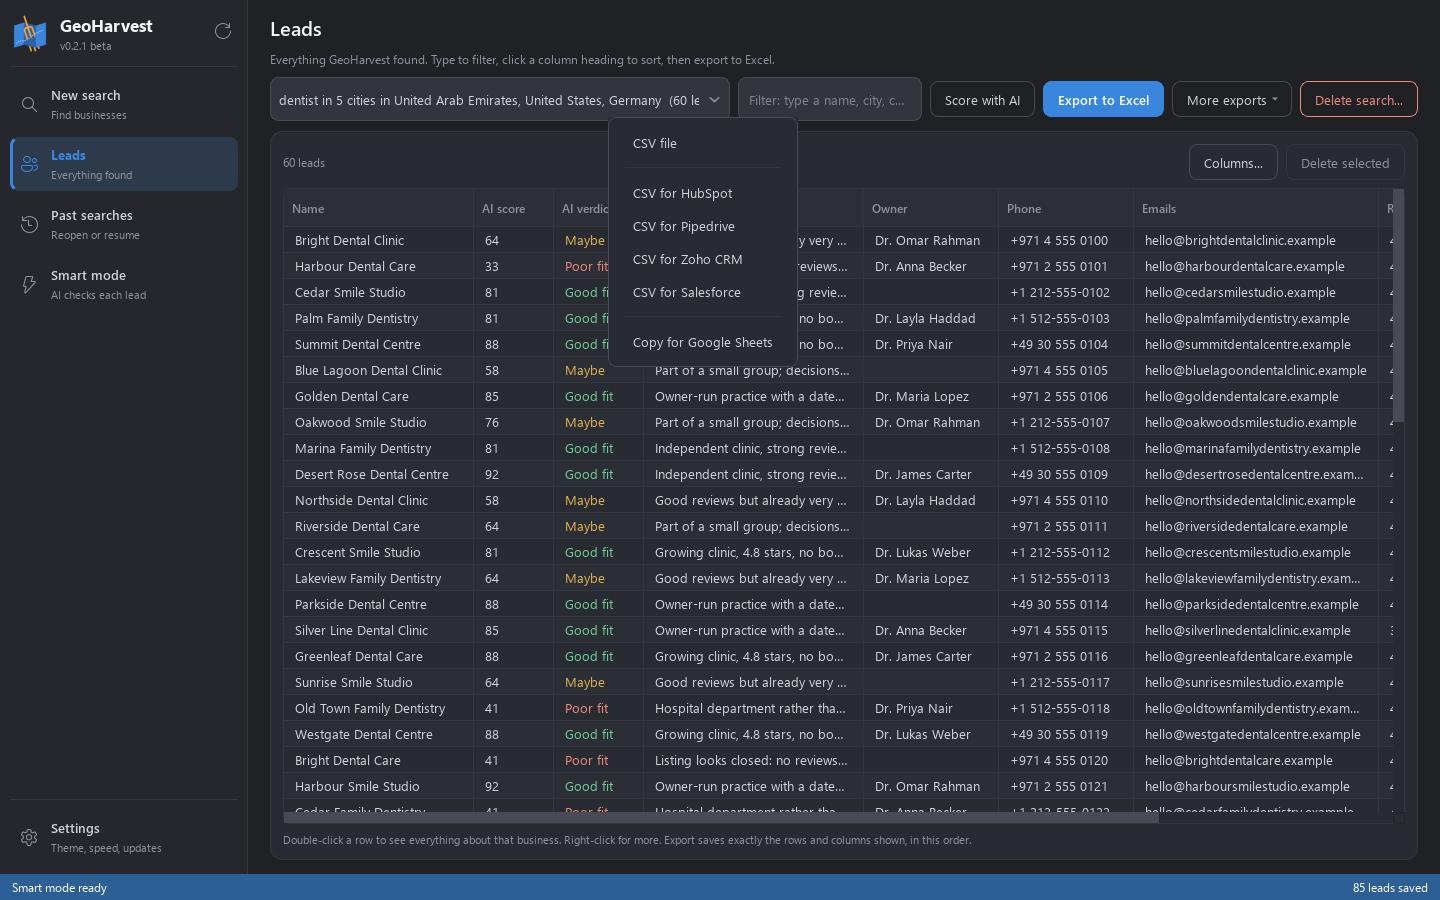
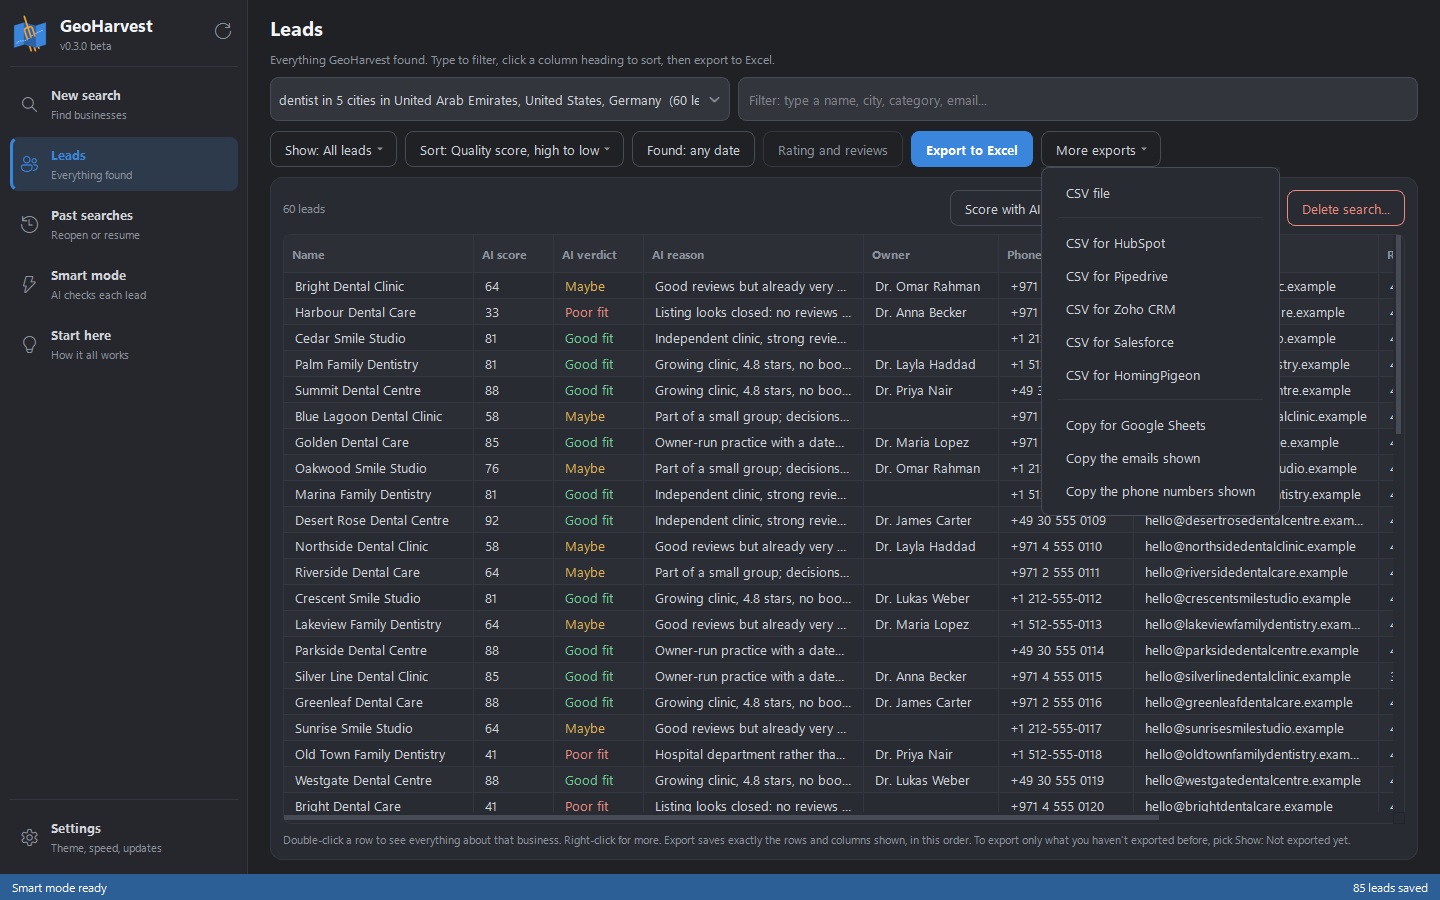
v0.3.0 beta: version, release notes, README and new screenshots

diff --git a/app/config.py b/app/config.py
@@ -5,7 +5,7 @@ from pathlib import Path
 
 APP_NAME = "GeoHarvest"
 APP_TITLE = "GeoHarvest"
-APP_VERSION = "v0.2.2 beta"
+APP_VERSION = "v0.3.0 beta"
 APP_TAGLINE = "Find business leads on Google Maps"
 REPO_URL = "https://github.com/4bdulllahh/GeoHarvest"
 

diff --git a/README.md b/README.md
@@ -13,7 +13,7 @@ customer. Export to Excel, to your CRM, or straight into Google Sheets. No accou
 subscription, nothing to pay: everything runs on your own computer.
 
 **Download:** [latest release](https://github.com/4bdulllahh/GeoHarvest/releases/latest) ·
-**Version:** 0.2.2 (free beta) · **Works on:** Windows 10 and 11 · **Countries:** all of them
+**Version:** 0.3.0 (free beta) · **Works on:** Windows 10 and 11 · **Countries:** all of them
 
 [![Build](https://github.com/4bdulllahh/GeoHarvest/actions/workflows/build.yml/badge.svg)](https://github.com/4bdulllahh/GeoHarvest/actions/workflows/build.yml)
 [![Latest release](https://img.shields.io/github/v/release/4bdulllahh/GeoHarvest?label=download&color=3b86dd)](https://github.com/4bdulllahh/GeoHarvest/releases/latest)
@@ -54,18 +54,23 @@ subscription, nothing to pay: everything runs on your own computer.
   Jane Smith", "Jane Smith, Owner", the page's business data) and in the domain's registration
   record, plus the owner's **LinkedIn profile** when the website links it. The company's
   LinkedIn page comes from its website too; "N/A" means the website doesn't link one.
-- **Startup or established.** Google Maps doesn't record when a company was founded, so
-  GeoHarvest estimates it from when the business's website was registered or first appeared
-  online. Filter for **startups** (under 3 years) or **established** companies.
-- **Filters that find the right businesses.**
-  - Google rating **at least** and **at most**, reviews **at least** and **at most** (few reviews
-    often means a business that needs more customers).
+- **Company age.** Google Maps doesn't record when a company was founded, so GeoHarvest
+  estimates it from when the business's website was registered or first appeared online. Pick
+  **startups** (under 3 years), **established** companies, or your own range in years.
+- **Requirements that find the right businesses.** Click a requirement to switch it on or off.
+  - **Sliders** for the Google rating, the number of reviews (few reviews often means a
+    business that needs more customers) and the company age.
+  - Must have an **email**, a **phone number**, **social media**, **LinkedIn**, the **owner's
+    name**, an address shown on Google, opening hours listed, or a listing claimed by the owner.
   - Website: **any, has one, or none**. "No website" finds businesses you could build a site for.
   - **Opening hours**: open now, open 24 hours, open on weekends, or open on a day and time you
     pick, each in the business's own time zone.
-  - Must have a phone number, leave out closed businesses, leave out businesses you found in
-    earlier searches, and keep only the best N leads,
-    shared fairly between your cities and business types.
+  - Leave out closed businesses and businesses you found in earlier searches.
+- **Minimum leads.** Say how many leads you need: GeoHarvest keeps searching, digging deeper
+  into each city, until at least that many businesses meet your requirements, and keeps every
+  match it finds, best first.
+- **For cold email, cold calling or your own database.** **Quick setup** sets the requirements
+  for each in one click, and **presets** save your own for next time.
 - **Only the details you need.** Click any detail to leave it out before a search (Details to
   include) or after it (Columns): selected ones are highlighted, the rest greyed out. Exports
   contain only the selected columns.
@@ -76,13 +81,20 @@ subscription, nothing to pay: everything runs on your own computer.
   **AI running on your own computer** (Ollama, LM Studio). You bring your own key; GeoHarvest
   has none built in.
 - **Live results.** Leads appear while the search runs, with tiles counting leads, searches,
-  websites checked, emails, phones and AI scores. Filter as you type and sort any column.
+  websites checked, emails, phones and AI scores. The form estimates how long a search will
+  take, and Windows tells you when it is done if you are working in another window.
+- **Every lead scored.** A quality score from what is known about the business (email, phone,
+  website, owner, social media, reviews...), with the breakdown in the lead's window.
+- **Find the leads you want.** **Sort** by best lead, quality or AI score, name, city, rating,
+  reviews or date found. **Show** only leads with an email, a phone, a website, the owner's
+  name, social media, LinkedIn, good fits, or those **not exported yet**. Filter by the date
+  found, rating and reviews, or by typing. **Copy the emails or phone numbers** in one click.
 - **Everything about a business in one window.** Double-click a lead to see every detail, with
   clickable links, **Copy all** and **Open in Google Maps**.
 - **Export anywhere.**
   - **Excel** with clickable links, or a plain **CSV**.
   - CSV files ready to import into **HubSpot, Pipedrive, Zoho CRM and Salesforce**, using each
-    CRM's own column names.
+    CRM's own column names, and into **HomingPigeon** (one row per email) for cold email.
   - **Copy for Google Sheets**: copies the leads and opens a new sheet; press Ctrl+V.
   - Safe against spreadsheet formula tricks hidden in business names.
 - **Nothing is ever lost.** Every result is saved the moment it arrives. Stop a search, close
@@ -90,22 +102,28 @@ subscription, nothing to pay: everything runs on your own computer.
   it stopped.
 - **Past searches.** Load any search's leads, resume it, run it again or delete it. Delete
   single leads you don't want.
+- **Backups.** Back up your searches, leads, presets and settings to a file, and restore them
+  on this PC or a new one. GeoHarvest also backs up by itself once a week.
 - **Proxies (optional).** For people who search a lot: paste HTTP or SOCKS5 proxies in Settings
   and test them. GeoHarvest takes turns between them and skips any that stop working.
-- **Updates itself.** When a new version comes out, GeoHarvest offers to install it, checks the
-  download is genuine, and keeps all your searches and settings.
-- **Light and easy to install.** A 32 MB download with its own installer: no administrator
+- **Updates itself.** Every time it opens, GeoHarvest downloads the newest version, checks it is
+  genuine and installs it, waiting for a running search to finish. Your searches and settings
+  are kept. An older download installs the newest version too.
+- **Light and easy to install.** A 33 MB download with its own installer: no administrator
   rights, no Python, nothing else to install, and Cancel never leaves a half-installed app.
-- **Easy to read.** Dark, light or match-your-computer themes, four text sizes, high contrast,
-  bold text, and on/off switches for settings.
+- **Your look, your language.** Ready-made themes plus a theme maker (share your theme as a
+  file), four text sizes, high contrast, bold text, smooth scrolling, and the menu in the order
+  you want. In **English, Arabic, German, Spanish and French**. The window fits any size: below
+  about 1000 pixels the menu shrinks to icons.
+- **Start here.** A guide page walks you through your first search, export and backup.
 
 ## Screenshots
 
 <p align="center"><img src="docs/screenshots/search.png" alt="New search: dentist and dental clinic, Around a place, Dubai Marina within 5 km, with the plan of 8 searches" width="860" /></p>
 
-| Filters: rating, reviews, website and opening hours | A search running, with live tiles |
+| Requirements: sliders, must haves and opening hours | A search running, with live tiles |
 | --- | --- |
-| <img src="docs/screenshots/filters.png" alt="The filters: rating at least and at most, reviews at least and at most set to 150, website any, has or none, and opening-hours switches with Open on weekends on" width="420" /> | <img src="docs/screenshots/search-running.png" alt="A search in step 2 of 3: 1,412 businesses found, 16 of 16 searches done, 298 of 450 websites checked, 187 with an email, 1,290 with a phone, best leads still to be picked out of 300" width="420" /> |
+| <img src="docs/screenshots/filters.png" alt="Requirements: Quick setup, company age, rating and reviews sliders with reviews up to 150, Minimum leads, website any, has or none, must-have buttons, and Open on weekends selected" width="420" /> | <img src="docs/screenshots/search-running.png" alt="A search in step 2 of 3: 1,412 businesses found, 16 of 16 searches done, 298 of 450 websites checked, 187 with an email, 1,290 with a phone, best leads still to be picked out of 300" width="420" /> |
 
 | Everything about one business | Columns: select the details to show |
 | --- | --- |
@@ -113,24 +131,25 @@ subscription, nothing to pay: everything runs on your own computer.
 
 <p align="center"><img src="docs/screenshots/exports.png" alt="The More exports menu: CSV file, CSV for HubSpot, Pipedrive, Zoho CRM and Salesforce, and Copy for Google Sheets" width="860" /></p>
 
-| Smart mode: your AI, your ideal customer | Settings: proxies, speed and appearance |
+| Smart mode: your AI, your ideal customer | Settings: everyday use, speed and proxies |
 | --- | --- |
-| <img src="docs/screenshots/smart.png" alt="Smart mode: AI providers from Google Gemini to LM Studio on this PC, the key box, the model and the ideal customer description" width="420" /> | <img src="docs/screenshots/settings.png" alt="Settings: theme and text size, search speed, and the proxies box with three example proxies, 3 of 3 working" width="420" /> |
+| <img src="docs/screenshots/smart.png" alt="Smart mode: AI providers from Google Gemini to LM Studio on this PC, the key box, the model and the ideal customer description" width="420" /> | <img src="docs/screenshots/settings.png" alt="Settings: first page, date and time formats, the finished-search notification, search speed, and the proxies box with three example proxies, 3 of 3 working" width="420" /> |
 
 <p align="center"><img src="docs/screenshots/history.png" alt="Past searches: an area search and a five-city search, with Load, Resume and Run again, and the Search loaded toast" width="860" /></p>
 
 ## How it works
 
 1. **New search.** Click the business box and pick types from the list, or type your own.
-   Choose **Countries and cities** or **Around a place**. Pick a company age, any filters, how
-   many leads you want (**Stop after**) and the details to include. Press **Start search**.
+   Choose **Countries and cities** or **Around a place**. Use a **Quick setup** or pick your
+   **Requirements**, set **Minimum leads** and the details to include. Press **Start search**.
 2. **Watch it work.** The search runs in three steps: searching Google, checking websites,
    picking the best leads. The tiles count businesses found, searches, websites checked,
-   emails, phones, AI scores (in Smart mode) and the best leads picked. Press **Stop** whenever
-   you like; you keep the best found so far, and **Resume** in Past searches carries on later.
+   emails, phones, AI scores (in Smart mode) and the leads found. Press **Stop** whenever you
+   like; you keep everything found so far, and **Resume** in Past searches carries on later.
    If there weren't enough businesses, it tells you why and offers to add more cities.
-3. **Leads.** The page opens on your latest search. Filter, sort, double-click a lead for its
-   details, delete the ones you don't want, and use **Columns** to choose what shows.
+3. **Leads.** The page opens on your latest search. Use **Show** and **Sort**, double-click a
+   lead for its details, delete the ones you don't want, and use **Columns** to choose what
+   shows.
 4. **Export.** **Export to Excel**, or **More exports** for CSV, your CRM or Google Sheets. The
    export has exactly the rows and columns on screen, in that order.
 
@@ -160,6 +179,10 @@ subscription, nothing to pay: everything runs on your own computer.
 certificate costs money every year), so Windows SmartScreen doesn't recognise it. Press
 **More info**, then **Run anyway**. You only need to do this once.
 
+**"Smart App Control blocked an app"?** Some Windows 11 PCs block every program that isn't
+code-signed, with no Run anyway. GeoHarvest can't be installed on those PCs yet; a backup
+installer for them is coming in 0.3.1.
+
 Your searches, leads and settings are kept in `%APPDATA%\GeoHarvest`, outside the app folder,
 so updating never loses them. To remove GeoHarvest, use **Settings > Uninstall GeoHarvest** or
 Windows Settings > Apps; it asks whether to keep your data.
@@ -181,7 +204,7 @@ receives emails, phone numbers or owners' names) and GitHub for updates. The ful
   background, so the window never freezes.
 - **Never lose a result.** Every page of results is saved as it arrives, and every search can
   be resumed.
-- **Plain English.** No jargon on screen; every setting says what it does.
+- **Plain words.** No jargon on screen, in any of its five languages; every setting says what it does.
 - **The logic is tested without the UI.** `app/core` never touches the interface, and its
   tests run without a network.
 
@@ -190,7 +213,7 @@ receives emails, phone numbers or owners' names) and GitHub for updates. The ful
 | Area | Choice |
 | --- | --- |
 | Language | Python 3.12 |
-| Interface | PyQt6 (Qt 6 Widgets), Fusion style, one stylesheet with dark and light themes |
+| Interface | PyQt6 (Qt 6 Widgets), Fusion style, one stylesheet coloured by the chosen theme; five languages, Arabic right to left |
 | Google Maps | Plain HTTPS with httpx (no browser, no API key), HTTP and SOCKS5 proxies |
 | Websites | httpx, 16 at a time; RDAP for domain age and registrant, the Wayback Machine as a fallback |
 | Smart mode | Google Gemini and OpenAI-compatible services over HTTPS, Claude through the official `anthropic` SDK |
@@ -216,9 +239,9 @@ places).
   the filters that need only Google's data (rating, reviews, website, phone, address, opening
   hours, closed businesses). 2: visit the websites of the most promising ones for emails,
   social media, company age and the owner. 3: score each lead (phone, website, email, rating,
-  reviews, claimed listing, real address...; averaged with the AI score in Smart mode) and keep
-  the best "Stop after", taking turns between your cities and business types so every one gets
-  its share. Leads that a later check rules out are replaced from the businesses already found.
+  reviews, owner, social media, claimed listing...; averaged with the AI score in Smart mode)
+  and rank the best first. If fewer than **Minimum leads** meet your requirements, GeoHarvest
+  goes back to step 1 and digs deeper into each city, until it has enough or Google runs out.
 - **If there aren't enough**, GeoHarvest says why ("71 company age unknown, 44 older than 3
   years...") and offers to add more cities or allow any company age, carrying on from where it
   stopped.
@@ -254,9 +277,9 @@ places).
 ## Testing the beta
 
 The most useful feedback: what you searched for and what went wrong or looked odd, anything
-confusing, and what you wish it did. New in 0.2.2 and worth trying: a search over several
-cities and business types with **Stop after** set, the business-type list, and the two
-buttons that widen a search that came up short. Post it as a
+confusing, and what you wish it did. New in 0.3.0 and worth trying: a **Quick setup** with
+**Minimum leads** set high, the **Show** and **Sort** menus on the Leads page, the themes, and
+the app in another language. Post it as a
 [GitHub issue](https://github.com/4bdulllahh/GeoHarvest/issues/new). If the app crashed,
 attach `%APPDATA%\GeoHarvest\logs\crash.log`; if Setup failed, attach
 `%TEMP%\GeoHarvest-setup-log.txt` (Setup's **Open log file** button shows it).
@@ -294,8 +317,10 @@ decisions behind it, and where each feature lives.
 - [x] **v0.2.2**: searches in three steps, the best leads shared fairly between cities and
   business types, reasons when a search comes up short, a business-type list, LinkedIn
   from websites, hidden addresses fixed
-- [ ] **Ideas for later**: more languages in the app, emails from Facebook pages, a map view of
-  results, and a Mac version
+- [x] **v0.3.0**: Requirements with sliders, Minimum leads, Quick setup and presets, quality
+  score, Show and Sort, themes, five languages, backups, updates that install by themselves
+- [ ] **v0.3.1**: a backup installer for PCs with Smart App Control
+- [ ] **Ideas for later**: emails from Facebook pages, a map view of results, and a Mac version
 
 ## Legal
 

diff --git a/docs/releases/v0.3.0-beta.md b/docs/releases/v0.3.0-beta.md
@@ -1,0 +1,76 @@
+## GeoHarvest 0.3.0 beta: requirements, minimum leads, themes and five languages
+
+The biggest update so far. GeoHarvest now keeps searching until it has the number of leads you
+asked for, and it works for cold email, cold calling or building your own database.
+
+### Finding leads
+
+- **Requirements** (was "Which businesses?"): click a requirement to switch it on or off. New
+  ones: must have an email, social media, LinkedIn, the owner's name, a listing claimed by the
+  owner, or opening hours listed.
+- **Sliders for anything with a minimum and maximum:** Google rating, number of reviews and
+  company age in years. Quick buttons for Any age, Startups, Established or your own range.
+- **Minimum leads** (was "Stop after"): GeoHarvest keeps searching, digging deeper into each
+  city, until at least that many businesses meet your requirements. Every match found along
+  the way is kept, best first. When there still aren't enough, it says why and offers to add
+  more cities or related business types.
+- **Quick setup:** one click sets the requirements for Cold email, Cold calling or Build a
+  database. **Presets:** save your own requirements and details, and use them again in one
+  click.
+- **Quality score:** every lead is scored on what is known about the business (email, phone,
+  website, owner, social media, address, rating, reviews...). Double-click a lead to see what
+  it scored on and what is missing.
+- **Name can be switched off** in Details to include. With nothing picked, Name is used.
+- **Live estimate:** the form shows roughly how many businesses the search will look at and
+  how long it will take.
+- **A notification when a search finishes** while you are in another window.
+
+### The Leads page
+
+- **Sort** best leads first, by quality or AI score, name or city A to Z, rating, reviews or
+  date found. **Show** only leads with an email, a phone, both, a website, no website, the
+  owner's name, social media, LinkedIn, startups, established businesses, good fits, or those
+  **not exported yet**.
+- **Date filter** on the day each lead was found, and **rating and reviews sliders**.
+- **Copy the emails or phone numbers** shown (or selected), one per line.
+- **Export for HomingPigeon:** one row per email, ready to import into HomingPigeon.
+- New columns: **Found on** and **Exported on**.
+
+### Look and feel
+
+- **Themes**, and a **theme maker** to make your own and share it as a file (themes made in
+  HomingPigeon load too), **smooth scrolling**, and Reset appearance.
+- **Menu order:** drag the pages into the order you want, and hide the ones you never use.
+- **Resizing:** rows wrap, side-by-side parts stack, and below about 1000 pixels the sidebar
+  shrinks to icons. GeoHarvest remembers its window size and place.
+- **Five languages:** English, Arabic (right to left), German, Spanish and French, in Settings.
+- **Start here:** a guide page that ticks off each step as you do it.
+
+### Your data
+
+- **Backup and restore:** keep your searches, leads, presets and settings safe, or move them to
+  a new PC. GeoHarvest also backs up by itself once a week and keeps the last four.
+- **Settings:** the first page when GeoHarvest opens, date and time formats, forget saved keys,
+  and report a problem.
+
+### Updates
+
+- **Updates install by themselves:** every time GeoHarvest opens, it downloads the newest
+  version and installs it, waiting until a running search finishes.
+- **From now on, an old Setup installs the newest release:** a Setup from 0.3.0 or later first
+  looks for a newer version and installs that one instead.
+
+### Download and install
+
+1. Download **GeoHarvest-v0.3.0-beta-windows.zip** below (Windows 10 and 11).
+2. Right-click the zip and choose **Extract All**. Setup can't run from inside the zip.
+3. Open the extracted folder and double-click **GeoHarvest-Setup.exe**, then click **Install**.
+
+**"Windows protected your PC"?** GeoHarvest is not code-signed yet. Click **More info**, then
+**Run anyway**.
+
+**"Smart App Control blocked an app"?** Some Windows 11 PCs block every unsigned program, with
+no Run anyway. A backup installer for those PCs is coming in 0.3.1.
+
+**Already have GeoHarvest?** Use **Update now** in the app. Your searches, leads, settings and
+AI key are kept. Your old "Stop after" and company age choices are carried over.

diff --git a/HANDOVER.md b/HANDOVER.md
@@ -5,13 +5,23 @@ is done, what is next, and the decisions already made so nobody re-asks them.
 
 ## Where things stand (start here)
 
-**Phase: beta testing (since 2026-10-16). Current version: v0.2.2 beta (2026-10-17).**
-All 7 original milestones are done, then v0.1.1-v0.1.3, v0.2.1 and **v0.2.2**. Version numbers
+**Phase: beta testing (since 2026-10-16). Current version: v0.3.0 beta (2026-10-29).**
+All 7 original milestones are done, then v0.1.1-v0.1.3, v0.2.1, v0.2.2 and **v0.3.0**. Version numbers
 follow the user's GitHub tags: keep `APP_VERSION` (app/config.py) equal to the tag's numbers.
 Don't start new features unless the user asks. Ask the user questions with the
 AskUserQuestion form, not as a text list (their preference).
 
-**v0.3.0 in progress (started 2026-10-29).** The user tested v0.2.2 and asked for a big batch.
+**State of v0.3.0 (2026-10-29):** code, `docs/releases/v0.3.0-beta.md`, README and fresh
+screenshots pushed; `dist/GeoHarvest-v0.3.0-beta-windows.zip` built locally (packaged self-test
+OK). The user publishes release `v0.3.0` and tests it. **Next agreed: v0.3.1 = a backup
+installer for Smart App Control PCs.** HomingPigeon's `.bat` can't be copied as is: it only
+gets past Setup, because HomingPigeon runs on signed python.org Python, but GeoHarvest's app is
+an unsigned PyInstaller `GeoHarvest.exe`, which SAC blocks too. It needs a second install method
+(python.org Python + pip-installed requirements + GeoHarvest from source, like HomingPigeon's
+`installer/setup_app.py`) and an update path that doesn't run `GeoHarvest-Setup.exe`. The
+user chose to ship 0.3.0 without it; READ ME FIRST and the README say it's coming.
+
+**v0.3.0 (started 2026-10-29).** The user tested v0.2.2 and asked for a big batch.
 Agreed plan (form answers), in order, pausing to ask after milestones 2, 3 and 8:
 1. [x] Requirements: "Which businesses?" renamed Requirements, every choice a select button,
    min/max sliders (rating, reviews, company age in years with Any/Startups/Established/My own
@@ -35,7 +45,7 @@ Agreed plan (form answers), in order, pausing to ask after milestones 2, 3 and 8
    search finishes, requirement presets, live estimate on the form
 8. [x] Languages: Arabic (RTL), German, Spanish, French via HomingPigeon's i18n package; Claude
    wrote the translations (see "Languages (0.3)" below)
-9. [ ] Build v0.3.0 zip (+ install-if-blocked .bat), release notes, README
+9. [x] Build v0.3.0 zip, release notes, README (the install-if-blocked .bat moved to v0.3.1)
 
 **State of v0.2.2 when the session ended (2026-10-17):**
 - Code, `docs/releases/v0.2.2-beta.md` and README pushed; the GitHub Actions run was green.
